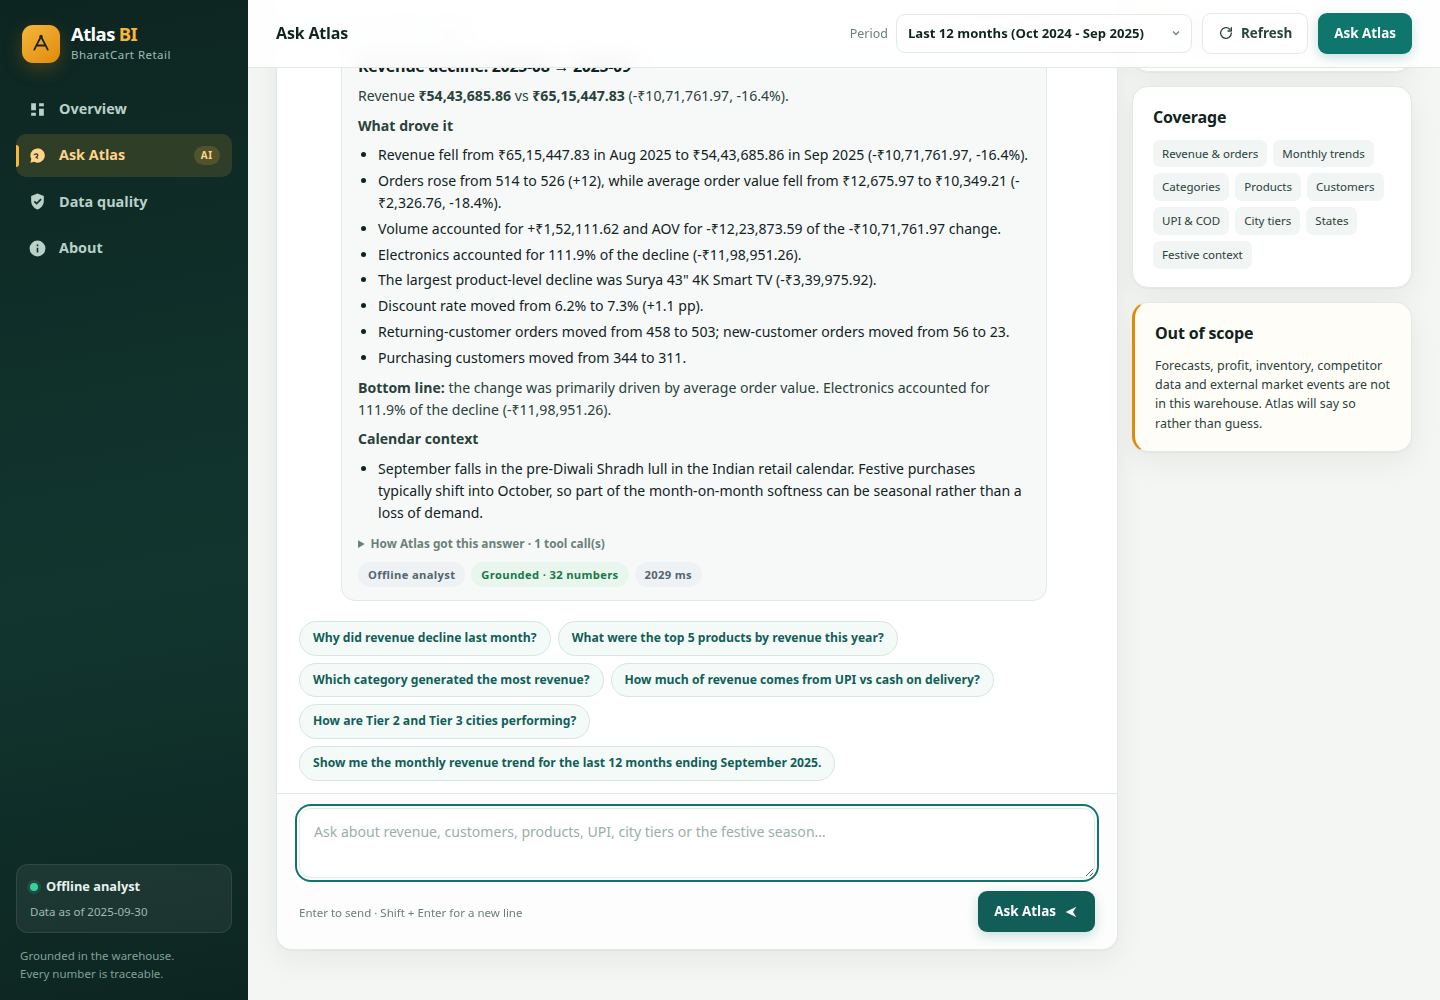
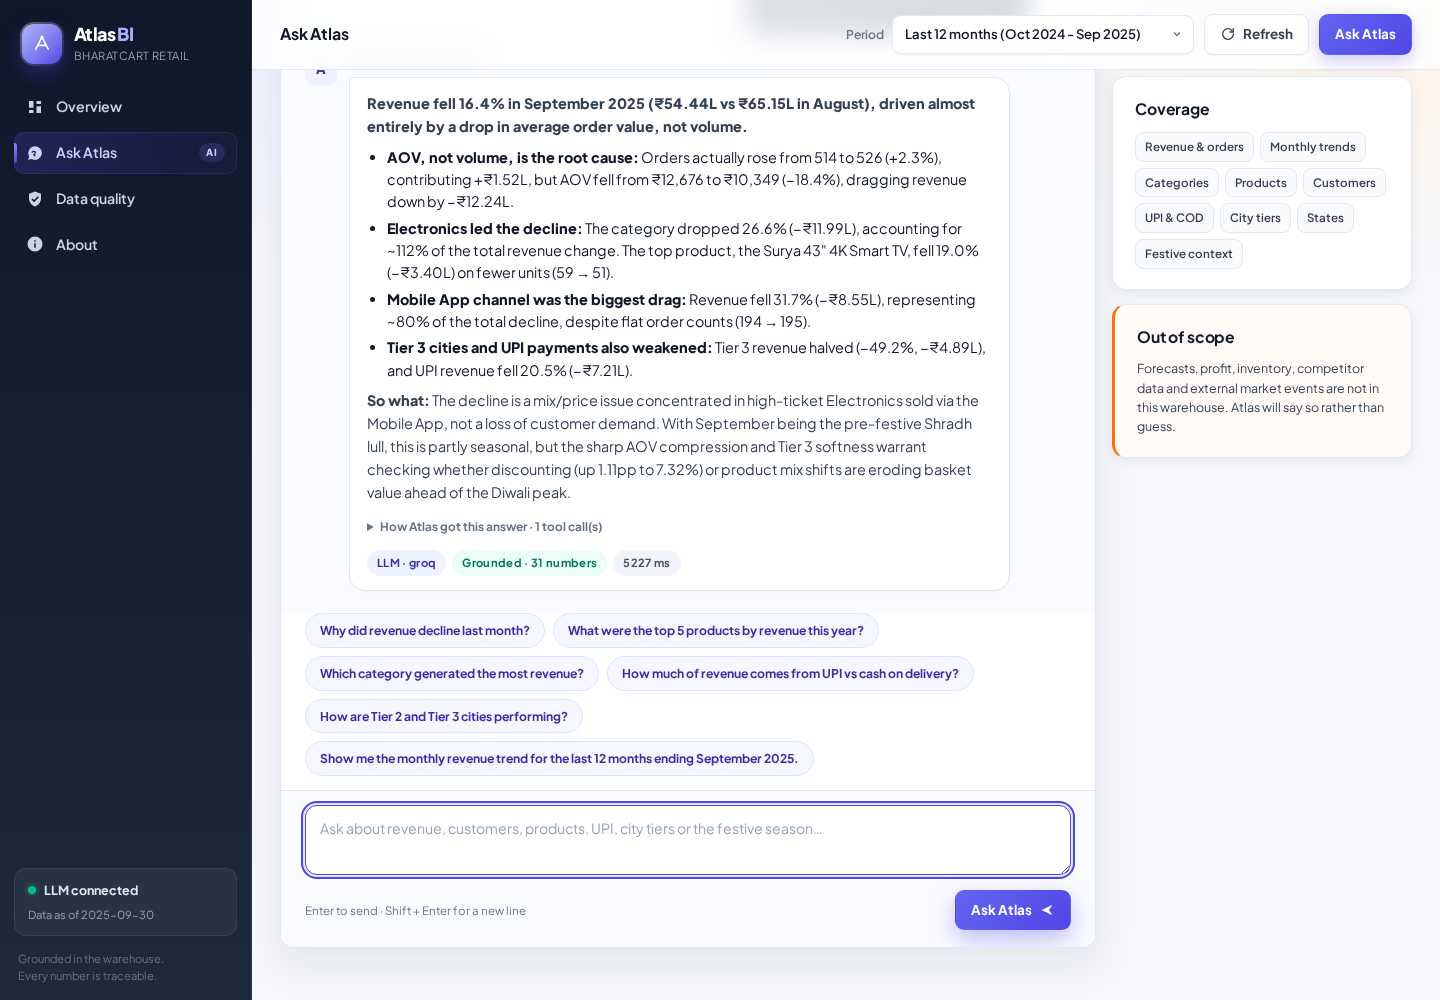
docs: refresh UI screenshots and assignment audit

diff --git a/docs/AUDIT.md b/docs/AUDIT.md
@@ -1,0 +1,53 @@
+# Assignment audit — DDL Labs Technical Assignment
+
+Audit against `DDL Labs Technical Assignment 1.pdf` (read 2026-11-25).
+
+| # | Requirement | Status | Evidence |
+|---|---|---|---|
+| 1 | Working AI Data Analyst & BI Agent | Complete | FastAPI app, grounded chat, dashboard |
+| 2 | E-commerce/retail customers/orders/products/sales | Complete | `scripts/generate_sample_data.py`, Indian retail dataset |
+| 3 | Data ingestion: clean, validate, missing values, duplicates, types | Complete | `app/ingest.py`, 19 quality checks, raw→clean counts |
+| 4 | Sales: revenue, orders, AOV, monthly revenue, category/product revenue | Complete | `app/analytics.py` |
+| 5 | Customers: total, new, repeat, inactive, top | Complete | `customer_metrics`, `customer_trend`, `inactive_customers`, `top_customers` |
+| 6 | Products: top-selling, highest-revenue, low-performing | Complete | `top_products`, `low_performing_products` |
+| 7 | Natural-language questions | Complete | `/api/ask`, deterministic + LLM paths |
+| 8 | LLM integration with stated provider/model | Complete | Groq `qwen/qwen3.8-27b` in `app/agent/llm.py` |
+| 9 | Controlled tool/function layer | Complete | `app/agent/tools.py` (16 tools) |
+| 10 | Grounded answers, no invented numbers | Complete | `app/agent/grounding.py`, fallback |
+| 11 | Unsupported/invalid input and DB/LLM failures | Complete | `app/errors.py`, query guard, fallback |
+| 12 | Dashboard KPIs: revenue/orders/customers/AOV | Complete | `/api/overview`, `index.html` |
+| 13 | Charts: monthly revenue, category, top products, customer trend | Complete | Chart specs + Chart.js |
+| 14 | AI-generated data-backed insights | Complete | `deterministic_insights`, LLM answer |
+| 15 | Multi-step “why revenue declined last month” | Complete | `revenue_decline_analysis` |
+| 16 | Dynamic chart generation | Complete | `generate_chart`, chat rendering |
+| 17 | Backend/API validation and error handling | Complete | FastAPI endpoints, `AppError` |
+| 18 | Tests for processing, calculations, API, AI, errors | Complete | 51 tests |
+| 19 | Public GitHub repo, runnable locally | Complete | repo public, README, `requirements.txt` |
+| 20 | README: purpose, setup, tech, LLM, DB, features, approach, tests, limits | Complete | `README.md` |
+| 21 | Demo video | Complete | release asset `demo.mp4` |
+| 22 | Submission details | Complete | `docs/SUBMISSION.md` |
+| 23 | Known limitations | Complete | README/SUBMISSION |
+
+## Extra assignment-relevant capabilities
+
+- India-specific analytics: payment mix, city tiers, state performance, channels.
+- Festive-calendar context for the September decline.
+- Read-only guarded SQL tool with authorizer and timeout.
+- Free deployment on Render and Docker.
+- Deterministic offline fallback when no LLM key is configured.
+
+## Verification
+
+- `pytest -q`: 51 passed.
+- Fresh warehouse rebuild: 2,200 customers, 160 products, 12,497 completed orders, 23,489 completed items.
+- All 6 database integrity checks pass.
+- Live LLM path verified against Groq: `mode=llm`, `grounding=verified`.
+- Browser E2E verified overview, period switching, grounded chat, chart, quality page, unsupported question and mobile layout.
+- Docker image builds and container serves `/api/health`.
+
+## Known limitations
+
+- Synthetic dataset, not real company data.
+- No profit, inventory, forecast or external benchmark data.
+- Free-tier LLM quota can trigger fallback to the deterministic analyst.
+- Render free service sleeps after inactivity.
